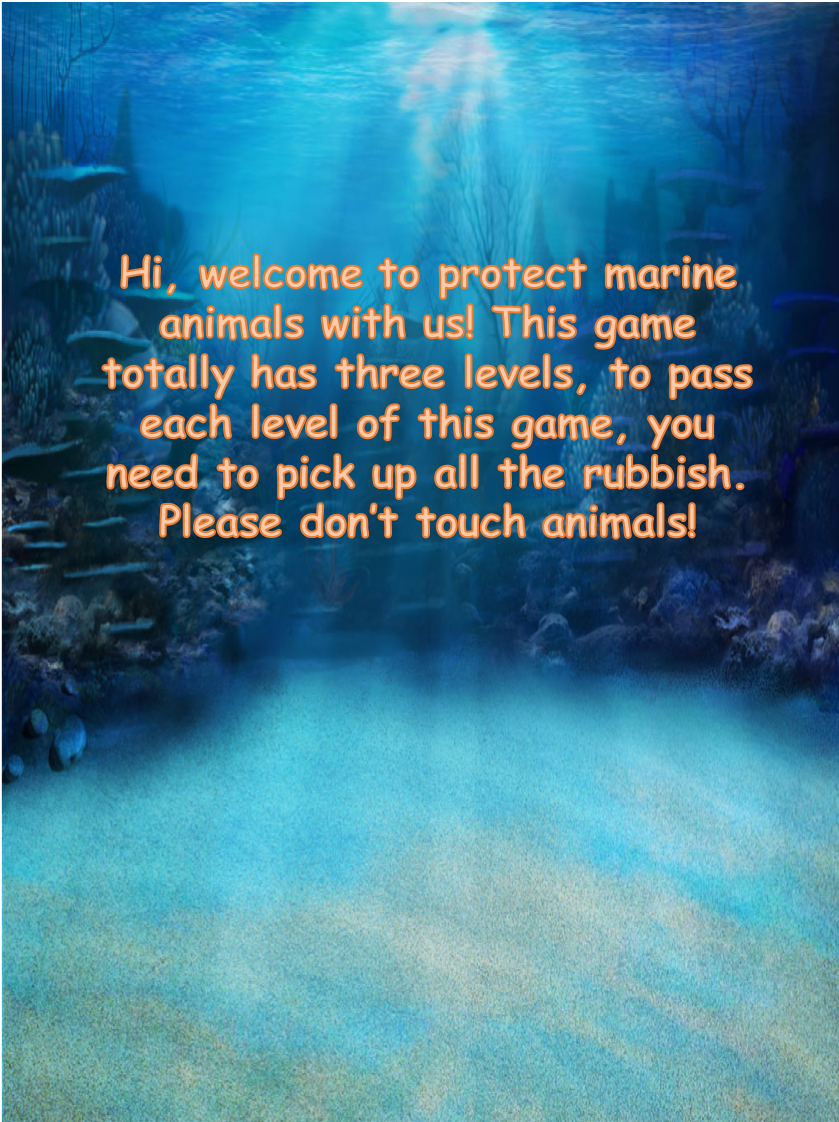
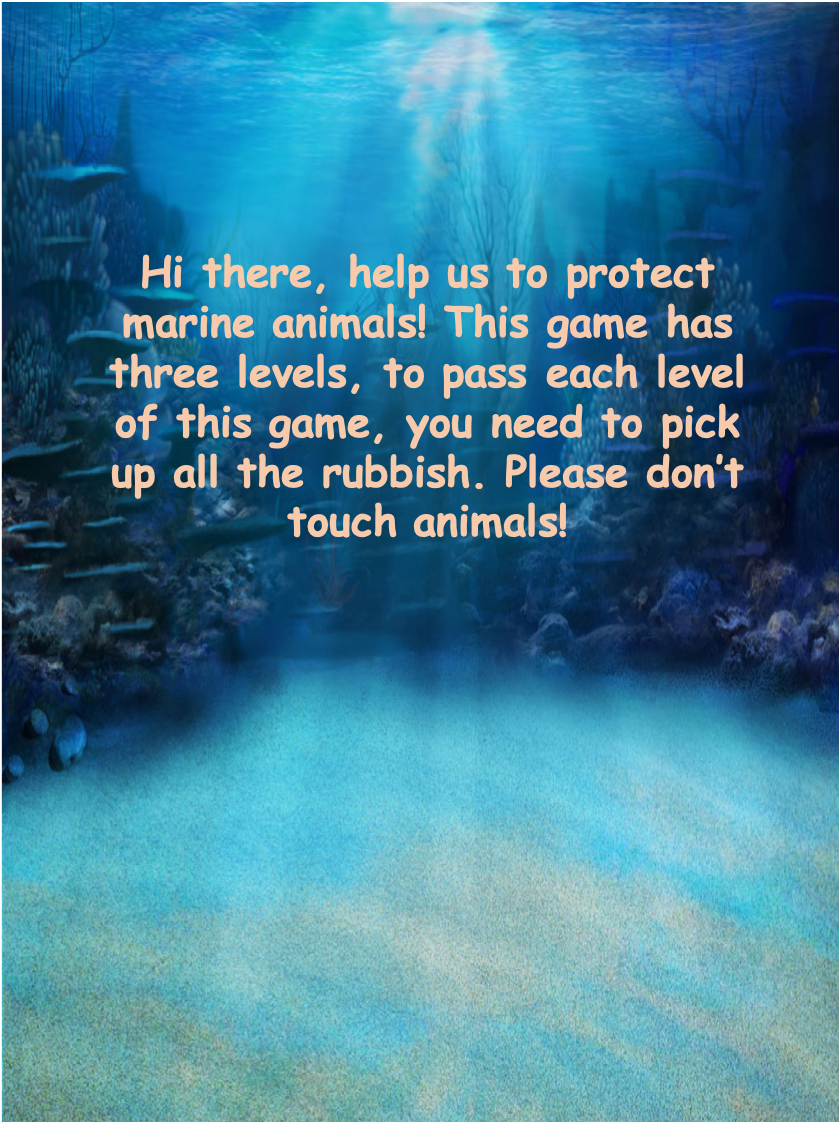
UI changes

Changed region(s): [[0.124, 0.2184, 0.8987, 0.4991]]

diff --git a/templates/app01/search.html b/templates/app01/search.html
@@ -48,23 +48,16 @@
   background-repeat: no-repeat;
 }
 
-{#select.round:focus {#}
-{#  background-image:#}
-{#    linear-gradient(45deg, white 50%, transparent 50%),#}
-{#    linear-gradient(135deg, transparent 50%, white 50%),#}
-{#    radial-gradient(gray 70%, transparent 72%);#}
-{#  background-position:#}
-{#    calc(100% - 15px) 1em,#}
-{#    calc(100% - 20px) 1em,#}
-{#    calc(100% - .5em) .5em;#}
-{#  background-size:#}
-{#    5px 5px,#}
-{#    5px 5px,#}
-{#    1.5em 1.5em;#}
-{#  background-repeat: no-repeat;#}
-{#  border-color: green;#}
-{#  outline: 0;#}
-
+    .our-causes::after {
+    content: '';
+    position: absolute;
+    top: 0;
+    left: 0;
+    z-index: -1;
+    width: 100%;
+    height: 100%;
+    background:white;
+}
     </style>
 
 </head>
@@ -93,7 +86,7 @@
       </li>
       <li class="nav-item dropdown">
         <a class="nav-link dropdown-toggle" style="color:black;" href="#" id="navbarDropdown" role="button" data-toggle="dropdown" aria-haspopup="true" aria-expanded="false">
-          PLAY & WIN
+          PLAY & LEARN
         </a>
         <div class="dropdown-menu" aria-labelledby="navbarDropdown">
           <a class="dropdown-item" href="puzzle">PUZZLE</a>
@@ -167,13 +160,13 @@
     </div>
 </div>
 <div id="result">
-  <div class="our-causes" style="background: url('static/app01/img/fact/fish1.jpg');backgournd-repeat: no-repeat; background-size: cover">
+  <div class="our-causes" style="backgournd-repeat: no-repeat; background-color: white;background-size: cover">
         <div class="container" style="text-align: center">
             {% if fishno > 0 %}
              <div class="row" style="text-align: left">
                 <div class="coL-12">
                     <div class="section-heading">
-                        <h2 class="entry-title" style="color: white;font-family: 'Comic Sans MS'">Fishes: {{ fishno }}</h2>
+                        <h2 class="entry-title" style="color: black;font-family: 'Comic Sans MS'">Fishes: {{ fishno }}</h2>
                     </div><!-- .section-heading -->
                 </div><!-- .col -->
             </div><!-- .row -->
@@ -189,9 +182,9 @@
                             </div><!-- .figure-overlay -->
                         </figure>
 
-                    <div class="cause-content-wrap" style="height: 80px">
+                    <div class="cause-content-wrap" style="height: 80px;background-color: black">
                         <header class="entry-header d-flex flex-wrap align-items-center">
-                            <h3 class="entry-title w-100 m-0"><a href="{{ animal.id }}">{{ animal.aName }}</a></h3>
+                            <h3 class="entry-title w-100 m-0"><a style="color: white" href="{{ animal.id }}">{{ animal.aName }}</a></h3>
                         </header><!-- .entry-header -->
                     </div><!-- .cause-content-wrap -->
                 </div>
@@ -205,7 +198,7 @@
                 <div class="row">
                 <div class="coL-12">
                     <div class="section-heading">
-                        <h2 class="entry-title" style="color: white;font-family: 'Comic Sans MS'">Repities:{{ repno }}</h2>
+                        <h2 class="entry-title" style="color: black;font-family: 'Comic Sans MS'">Repities:{{ repno }}</h2>
                     </div><!-- .section-heading -->
                 </div><!-- .col -->
             </div><!-- .row -->
@@ -221,9 +214,9 @@
                             </div><!-- .figure-overlay -->
                         </figure>
 
-                    <div class="cause-content-wrap" style="height: 80px">
+                    <div class="cause-content-wrap" style="height: 80px;background-color: black">
                         <header class="entry-header d-flex flex-wrap align-items-center">
-                            <h3 class="entry-title w-100 m-0"><a href="{{ animal.id }}">{{ animal.aName }}</a></h3>
+                            <h3 class="entry-title w-100 m-0"><a style="color: white" href="{{ animal.id }}">{{ animal.aName }}</a></h3>
                         </header><!-- .entry-header -->
                     </div><!-- .cause-content-wrap -->
                 </div>
@@ -238,7 +231,7 @@
                 <div class="row">
                 <div class="coL-12">
                     <div class="section-heading">
-                        <h2 class="entry-title" style="color: white;font-family: 'Comic Sans MS'">Marine Mammals:{{ mamno }}</h2>
+                        <h2 class="entry-title" style="color: black;font-family: 'Comic Sans MS'">Marine Mammals:{{ mamno }}</h2>
                     </div><!-- .section-heading -->
                 </div><!-- .col -->
             </div><!-- .row -->
@@ -254,9 +247,9 @@
                             </div><!-- .figure-overlay -->
                         </figure>
 
-                    <div class="cause-content-wrap" style="height: 80px">
+                    <div class="cause-content-wrap" style="height: 80px;background-color: black">
                         <header class="entry-header d-flex flex-wrap align-items-center">
-                            <h3 class="entry-title w-100 m-0"><a href="{{ animal.id }}">{{ animal.aName }}</a></h3>
+                            <h3 class="entry-title w-100 m-0"><a style="color: white" href="{{ animal.id }}">{{ animal.aName }}</a></h3>
                         </header><!-- .entry-header -->
                     </div><!-- .cause-content-wrap -->
                 </div>
@@ -273,7 +266,6 @@
             </div>
 
         </div><!-- .container -->
-</div>
 </div>
 <div id="copyright" class="container" style="width: 100%;padding: 20px 0px 10px 0px">
         <p style="color: #6c757d">Copyright <2019> < VIC wildlife BUNJ></p>

diff --git a/templates/app01/index.html b/templates/app01/index.html
@@ -59,7 +59,7 @@
       </li>
       <li class="nav-item dropdown">
         <a class="nav-link dropdown-toggle" style="color:black;" href="#" id="navbarDropdown" role="button" data-toggle="dropdown" aria-haspopup="true" aria-expanded="false">
-          PLAY & WIN
+          PLAY & LEARN
         </a>
         <div class="dropdown-menu" aria-labelledby="navbarDropdown">
           <a class="dropdown-item" href="puzzle">PUZZLE</a>
@@ -126,65 +126,7 @@
 			  </li>
 			</ul>
 </section>
-{#    <div id="slide-window" style="position: relative; width: 100%">#}
-{##}
-{#    <ul id="slides" style="width: 100%">#}
-{##}
-{#      <li class="slide color-0 active" style="background-image:url(static/app01/img/gif/giphy1.gif);background-repeat: no-repeat">#}
-{#          <div style="position: absolute;top:0px;width: 100%;height:100%;background: rgba(0, 0, 0, 0.4);">#}
-{#              <div class="container" style="padding-top:10%; width: 100%;text-align: center;">#}
-{#                    <p style="font-family: 'Piedra', cursive;font-size: 4em; color: darkorange;">WELCOME</p>#}
-{#                     <p style="font-family: 'Piedra', cursive;font-size: 3em; color: white;">DO YOU KNOW OUR MARINE BUDDIES NEED OUR HELP?</p>#}
-{#                     <p style="font-family: 'Piedra', cursive;font-size: 3em; color: yellow">LET'S DISCOVER MARINE BUDDIES FIRST.</p>#}
-{#                  <a href="#next" >#}
-{#                   <div class="arrow" style="margin-top: 50px">#}
-{#                   <span></span>#}
-{#                   <span></span>#}
-{#                  </div></a>#}
-{#              </div>#}
-{#          </div>#}
-{#      </li>#}
-{##}
-{#      <li class="slide color-1" style="background-image:url(static/app01/img/gif/Picture1.png);background-repeat: no-repeat">#}
-{#          <div style="position: absolute;top:0px;width: 100%;height:100%;background: rgba(0, 0, 0, 0.4);">#}
-{#              <div id="container" style="padding-top:10%; padding-left:5%;width: 90%;text-align: center;">#}
-{#              <p style="font-family: 'Piedra', cursive;font-size: 3em; font-weight: bolder;color: white">WHY MARINE BUDDIES NEED OUR HELP? </p>#}
-{#              <p style="font-family: 'Piedra', cursive;font-size: 3em; font-weight: bolder;color: white">85 OUT OF EVERY 100 MARINE SPECIES ARE AFFECTED BY PLASTICS. </p>#}
-{#              <p style="font-family: 'Piedra', cursive;font-size: 3em; font-weight: bolder;color: yellow">DO YOU KNOW WHERE DOES PLASTIC REALLY GO IN THE OCEAN? LET'S SEE IT.</p>#}
-{#              <a href="#plastic" >#}
-{#                   <div class="arrow" style="margin-top: 0">#}
-{#                   <span></span>#}
-{#                   <span></span>#}
-{#                  </div></a>#}
-{#              </div>#}
-{#          </div>#}
-{#      </li>#}
-{##}
-{#      <li class="slide color-2" style="background-image:url(static/app01/img/gif/giphy.gif);">#}
-{#          <div style="position: absolute;top:0px;width: 100%;height:100%;background: rgba(0, 0, 0, 0.4);">#}
-{#              <div id="container" style="padding-top:15%;; width: 100%;text-align: center;vertical-align: center">#}
-{#              <p style="font-family: 'Piedra', cursive;font-size: 3em; color: white;">WHAT WE CAN DO TO HELP MARINE BUDDIES?</p>#}
-{#              <p style="font-family: 'Piedra', cursive;font-size: 3em; color: white;">REDUCE, REUSE, THEN RECYCLE.</p>#}
-{#               <p style="font-family: 'Piedra', cursive;font-size: 3em; color: yellow;font-weight: bolder">LEARN MORE HERE.</p>#}
-{#                  <a href="#recycle" >#}
-{#                   <div class="arrow" style="margin-top: 100px">#}
-{#                   <span></span>#}
-{#                   <span></span>#}
-{#                  </div></a>#}
-{#              </div>#}
-{#          </div>#}
-{#      </li>#}
-{##}
-{#    </ul>#}
-{##}
-{#    <span class="nav fa fa-chevron-left fa-3x" id="left">#}
-{##}
-{#    </span>#}
-{#    <span class="nav fa fa-chevron-right fa-3x" id="right">#}
-{#        <img src="static/app01/img/gif/pointer.gif" style="width: 60px;height: 40px">#}
-{#    </span>#}
-{##}
-{#   </div>#}
+
 <div id="next"></div>
     <div class="our-causes" style="background: url('static/app01/img/fact/our-causes.jpg');backgournd-repeat: no-repeat; background-size: cover">
         <div class="container"  style="text-align: center;width:100%;">
@@ -251,11 +193,6 @@
                                         <header class="entry-header d-flex flex-wrap align-items-center">
                                             <h3 class="entry-title w-100 m-0" ><a href="typeid=9" style="font-size: 0.8em;font-family: 'Comic Sans MS'">Marine Mammals</a></h3>
                                         </header><!-- .entry-header -->
-
-                                        <div class="entry-content">
-                                            <p class="m-0">Desc</p>
-                                        </div><!-- .entry-content -->
-
                                     </div><!-- .cause-content-wrap -->
                                 </div><!-- .cause-wrap -->
                             </div><!-- .swiper-slide -->

diff --git a/templates/app01/quiz.html b/templates/app01/quiz.html
@@ -159,7 +159,7 @@
         <li class=""><a href="index" style="color: black">HOME</a></li>
         <li class="#"><a href="marinefamily" style="color: black">DISCOVER</a></li>
         <li class="#"><a href="quiz" style="background-color: #ed9c28;color: black">QUIZ</a></li>
-        <li class="dropdown"><a class="dropdown-toggle" style="color: black" data-toggle="dropdown" href="#">PLAY & WIN<span class="caret"></span></a>
+        <li class="dropdown"><a class="dropdown-toggle" style="color: black" data-toggle="dropdown" href="#">PLAY & LEARN<span class="caret"></span></a>
           <ul class="dropdown-menu">
             <li><a href="puzzle" style="color: black">PUZZLE</a></li>
             <li><a href="pickingrubbish" style="color: black">PICK-IT-RIGHT</a></li>
@@ -175,7 +175,7 @@
   </div>
 </nav>
 
-  <div class="img-container" style="margin-top: 10%" >
+  <div class="img-container" style="margin-top: 10%;height: 80%" >
 <div id="header-featured"  style="background-image: url(static/app01/img/quiz/quizbackground/quiz.jpg);background-size: 50%;background-repeat: no-repeat">
 	<div id="banner-wrapper">
 		<div id="banner" class="container" style="width: 100%; color: darkslategrey">
@@ -190,7 +190,9 @@
 
 </div>
 </div>
-
+<div id="copyright" class="container" style="width: 100%;padding: 20px 0px 10px 0px">
+        <p style="color: #6c757d">Copyright <2019> < VIC wildlife BUNJ></p>
+</div>
 <!-- Modal -->
 <div class="modal fade" id="quizPart" tabindex="-1" role="dialog" aria-labelledby="myModalLabel">
     <div class="modal-dialog" role="document">
@@ -413,7 +415,7 @@
                         <img src='/static/app01/img/quiz/quizpic/q10.jpg' class="img-responsive center-block img-circle">
                     </div>
                     <div class = 'textQues hideQues'>
-                        <p class="text-left"><h4 style='font-weight:bold'>10.Which fish swallows lots of water(or air!) to turn into a spiky ball when threatened?</h4></p>
+                        <p class="text-left"><h4 style='font-weight:bold'>10.Which fish swallows lots of water (or air) to turn into a spiky ball when threatened?</h4></p>
                         <p><input type="button" class="btn btn-info" name = 'q10' value = 'A.Stingray' onclick = selectOpt(this)></p>
                         <p><input type="button" class="btn btn-info" name = 'q10' value = 'B.Pufferfish' onclick = selectOpt(this)></p>
                         <p><input type="button" class="btn btn-info" name = 'q10' value = 'C.Lionfish' onclick = selectOpt(this)></p>
@@ -457,9 +459,7 @@
     </div>
 </div>
 
-<div id="copyright" class="container" style="width: 100%;padding: 20px 0px 10px 0px">
-        <p style="color: #6c757d">Copyright <2019> < VIC wildlife BUNJ></p>
-    </div>
+
 <a id="back" style="z-index:9999;cursor:pointer;width: 30px;height:30px;background-color: #FFFFFF;color: black;"
         onclick="javascript:history.go(-1)" class="back_to_previous" ><img src="static/app01/img/Arrow.png" style="width: 30px;height: 30px;background: none!important"/></a>
 </body>

diff --git a/templates/app01/pickingrubbish.html b/templates/app01/pickingrubbish.html
@@ -59,7 +59,7 @@
       </li>
       <li class="nav-item dropdown">
         <a class="nav-link dropdown-toggle" style="color:black;" href="#" id="navbarDropdown" role="button" data-toggle="dropdown" aria-haspopup="true" aria-expanded="false">
-          PLAY & WIN
+          PLAY & LEARN
         </a>
         <div class="dropdown-menu" aria-labelledby="navbarDropdown">
           <a class="dropdown-item" href="puzzle" style="color:black;;">PUZZLE</a>
@@ -84,7 +84,7 @@
             <br/>
             <p style="font-family: 'Chicle', cursive;font-size: 3em;color: wheat">Welcome to protect animals with us!</p>
 			<p style="font-family: 'Chicle', cursive;color: #FFFFFF; font-size: 2em"> This game has three levels in total, to pass each level of this game, you need to pick up all the rubbish</p>
-            <p style="font-family: 'Chicle', cursive;color: orangered;font-size: 2em; font-weight: bold">Please don't catch animals.</p>
+            <p style="font-family: 'Chicle', cursive;color: wheat;font-size: 2em; ">Please don't catch animals.</p>
             <a href="#all"> <div class="arrow">
                 <span></span>
                 <span></span>
@@ -92,30 +92,6 @@
 		</div>
     </div>
 </div>
-{# <div id="header-featured"  style="background-image: url(static/app01/img/game/rubbish.jpg);margin-top: 0;padding: 0; width: 100%; height: 120%">#}
-{#     <div style="width:100%;height:100%;background: rgba(0, 0, 0, 0.4);">#}
-{#    <div id="banner-wrapper">#}
-{#		<div id="banner" class="container" style="width: 100%; height:100%;color: darkslategrey">#}
-{#            <a href="#next"> <div class="arrow">#}
-{#                <span></span>#}
-{#                <span></span>#}
-{#            </div></a>#}
-{#            <br/>#}
-{#            <br/>#}
-{#            <br/>#}
-{#            <p style="font-family: 'Chicle', cursive;font-size: 2.5em;color: wheat">Welcome to protect animals with us!</p>#}
-{#			<p style="font-family: 'Chicle', cursive;color: #FFFFFF; font-size: 1.5em"> This game has three levels in total, to pass each level of this game, you need to pick up all the rubbish</p>#}
-{#            <p style="font-family: 'Chicle', cursive;color: orangered;font-size: 1.5em; font-weight: bold">Please don't catch animals.</p>#}
-{#            <br/>#}
-{#            <a href="#next"> <div class="arrow">#}
-{#                <span></span>#}
-{#                <span></span>#}
-{#            </div></a>#}
-{#		</div>#}
-{#    </div>#}
-{#	</div>#}
-{#</div>#}
-
 
 <script type="text/javascript" src="static/app01/js/bootstrap.min.js"></script>
 <script>

diff --git a/templates/app01/puzzle.html b/templates/app01/puzzle.html
@@ -161,7 +161,7 @@
       </li>
       <li class="nav-item dropdown">
         <a class="nav-link dropdown-toggle" style="color:black;" href="#" id="navbarDropdown" role="button" data-toggle="dropdown" aria-haspopup="true" aria-expanded="false">
-          PLAY & WIN
+          PLAY & LEARN
         </a>
         <div class="dropdown-menu" aria-labelledby="navbarDropdown">
           <a class="dropdown-item" href="puzzle" style="background-color: #ed9c28;color: black">PUZZLE</a>

diff --git a/templates/app01/Location.html b/templates/app01/Location.html
@@ -112,7 +112,7 @@
       </li>
       <li class="nav-item dropdown">
         <a class="nav-link dropdown-toggle" style="color:black;" href="#" id="navbarDropdown" role="button" data-toggle="dropdown" aria-haspopup="true" aria-expanded="false">
-          PLAY & WIN
+          PLAY & LEARN
         </a>
         <div class="dropdown-menu" aria-labelledby="navbarDropdown">
           <a class="dropdown-item" href="puzzle">PUZZLE</a>

diff --git a/templates/app01/marinefamily.html b/templates/app01/marinefamily.html
@@ -61,7 +61,7 @@
       </li>
       <li class="nav-item dropdown">
         <a class="nav-link dropdown-toggle" style="color:black;" href="#" id="navbarDropdown" role="button" data-toggle="dropdown" aria-haspopup="true" aria-expanded="false">
-          PLAY & WIN
+          PLAY & LEARN
         </a>
         <div class="dropdown-menu" aria-labelledby="navbarDropdown">
           <a class="dropdown-item" href="puzzle">PUZZLE</a>

diff --git a/templates/app01/marinelife.html b/templates/app01/marinelife.html
@@ -58,7 +58,7 @@
       </li>
       <li class="nav-item dropdown">
         <a class="nav-link dropdown-toggle" style="color:black;" href="#" id="navbarDropdown" role="button" data-toggle="dropdown" aria-haspopup="true" aria-expanded="false">
-          PLAY & WIN
+          PLAY & LEARN
         </a>
         <div class="dropdown-menu" aria-labelledby="navbarDropdown">
           <a class="dropdown-item" href="puzzle">PUZZLE</a>

diff --git a/templates/app01/showDetail.html b/templates/app01/showDetail.html
@@ -48,7 +48,7 @@
       </li>
       <li class="nav-item dropdown">
         <a class="nav-link dropdown-toggle" style="color:black;" href="#" id="navbarDropdown" role="button" data-toggle="dropdown" aria-haspopup="true" aria-expanded="false">
-          PLAY & WIN
+          PLAY & LEARN
         </a>
         <div class="dropdown-menu" aria-labelledby="navbarDropdown">
           <a class="dropdown-item" href="puzzle">PUZZLE</a>
